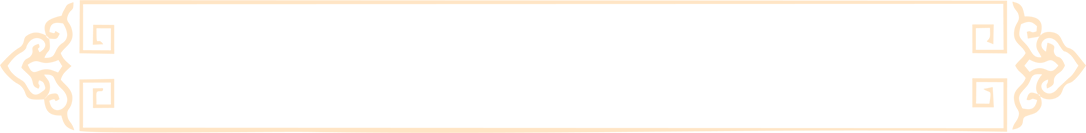
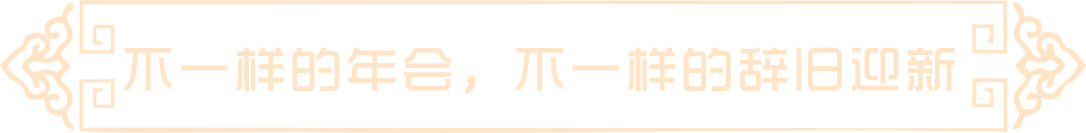
修改部分图片，添加头部和标题

Changed region(s): [[0.0912, 0.3609, 0.8812, 0.6917]]

diff --git a/index.html b/index.html
@@ -8,18 +8,38 @@
 <body>
     <div class="outsideBg">
         <div class="topList">
-            <ul class="topLeftList">
-                <li>首页</li>
-                <li>去浪团建</li>
-                <li>去浪视频</li>
-            </ul>
-            <ul class="topRightList">
-                <li></li>
-                <li></li>
-                <li></li>
-            </ul>
+            <div class="topCenter">
+                <ul class="topLeftList">
+                    <li><img src="images/amLogo.png" alt=""></li>
+                    <li>首页</li>
+                    <li>去浪团建</li>
+                    <li>去浪视频</li>
+                </ul>
+                <ul class="topRightList">
+                    <li>24小时热线：400-115-6688</li>
+                    <li><img src="images/amWbIcon.png"></li>
+                    <li><img src="images/amWxIcon.png"></li>
+                </ul>
+            </div>
+            <div class="clear"></div>
         </div>
-        <h1 class="indexTitle">不一样的年会，不一样的辞旧迎新</h1>
+        <div class="topList topListSm">
+                <ul class="topLeftList">
+                    <li><img src="images/amLogo.png" alt=""></li>
+                    <li>首页</li>
+                    <li>去浪团建</li>
+                    <li>去浪视频</li>
+                </ul>
+                <ul class="topRightList">
+                    <li><img src="images/amWxIcon.png"></li>
+                    <li><img src="images/amWbIcon.png"></li>
+                    <li>24小时热线：400-115-6688</li>
+                </ul>
+        </div>
+        <h1 class="indexTitle"></h1>
+        <div class="midBody">
+
+        </div>
     </div>
 <script src="javascript/index.js"></script>
 </body>

diff --git a/styleSheet/index.css b/styleSheet/index.css
@@ -16,6 +16,40 @@ img{vertical-align:top;border:none}
     right: 0;
     bottom: 0;
 }
+.topList{
+    background: #ffffff;
+    opacity: 0.8;
+}
+.topList img{
+    vertical-align:middle;
+}
+.topCenter{
+    /*margin:0 auto;*/
+    width: 85%;
+    height: 50px;
+    line-height: 50px;
+    font-weight: bold;
+}
+.topCenter .topLeftList{
+    margin-left: 100px;
+}
+.topCenter .topLeftList>li{
+    float: left;
+    margin-right: 8%;
+}
+.topCenter .topLeftList>li:last-child{
+    margin-right: 0;
+}
+.topCenter .topRightList>li{
+    float: right;
+    margin-left: 2%;
+}
+.topListSm{
+    display: none;
+}
+.topListSm li{
+    text-align: center;
+}
 .indexTitle{
     width: 1000px;
     height: 120px;
@@ -28,4 +62,18 @@ img{vertical-align:top;border:none}
     background: url("../images/annualMeetingTitle.png") no-repeat;
     background-size:100% 100%;
 
+}
+@media screen and (max-width:1050px){
+    .topCenter{
+        height: auto;
+        width: 100%;
+    }
+}
+@media screen and (max-width:863px){
+    .topList{
+       display: none;
+    }
+    .topListSm{
+        display: block;
+    }
 }
